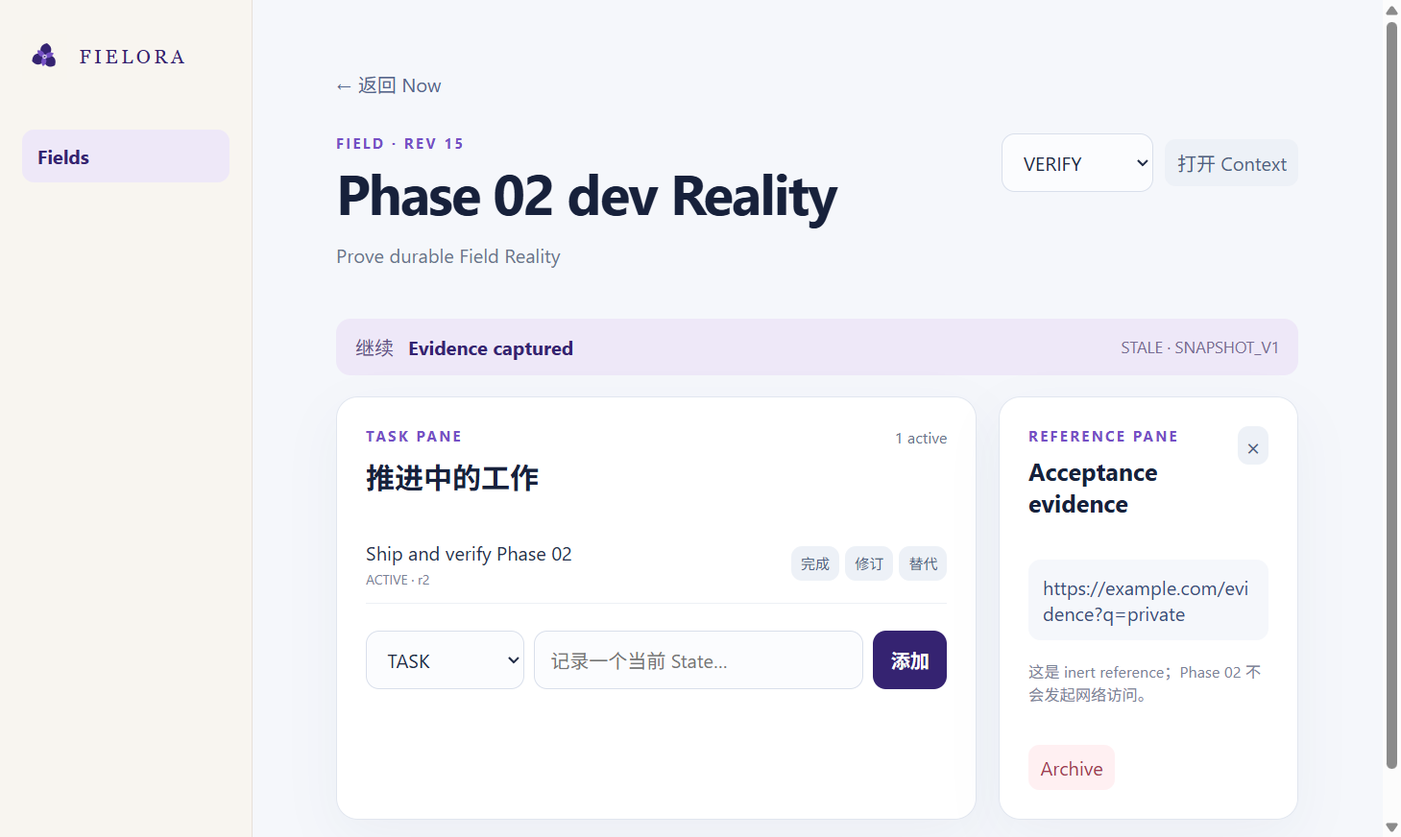
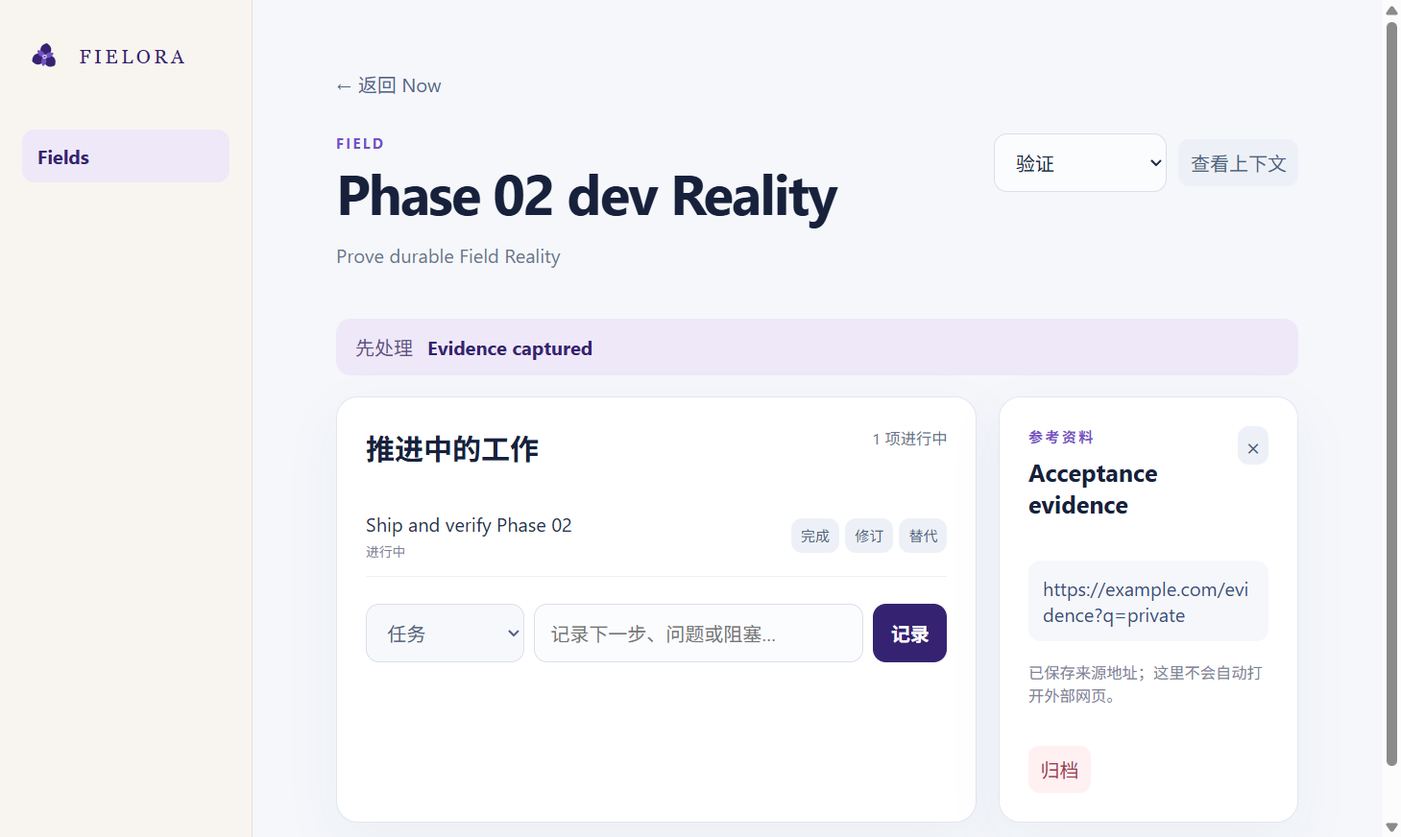
fix: refine Phase 02 human gate presentation

diff --git a/apps/desktop/src/renderer/App.tsx b/apps/desktop/src/renderer/App.tsx
@@ -5,7 +5,16 @@ import type {
 } from '@fielora/contracts';
 import fieloraLogo from '../../assets/fielora-logo.svg';
 import fieloraMark from '../../assets/fielora-mark.svg';
-import { focusLabel, screenFor } from './view-state';
+import {
+  activityLabel,
+  continuationPresentation,
+  fieldModeLabels,
+  focusLabel,
+  referenceLifecycleLabels,
+  screenFor,
+  stateKindLabels,
+  stateStatusLabels,
+} from './view-state';
 
 function BrandWordmark() {
   return <div className="wordmark"><img src={fieloraMark} alt="" aria-hidden="true" /><span>Fielora</span></div>;
@@ -18,18 +27,6 @@ function paneId(): string {
   bytes[6] = (bytes[6]! & 0x0f) | 0x70; bytes[8] = (bytes[8]! & 0x3f) | 0x80;
   const hex = [...bytes].map((value) => value.toString(16).padStart(2, '0')).join('');
   return `pane_${hex.slice(0, 8)}-${hex.slice(8, 12)}-${hex.slice(12, 16)}-${hex.slice(16, 20)}-${hex.slice(20)}`;
-}
-
-function continuationLabel(resume: FieldResumeV1View): string {
-  const { continuation } = resume;
-  if (continuation.target.kind === 'LEGACY_TEXT') return continuation.target.label;
-  if (continuation.target.kind === 'STATE') {
-    const stateId = continuation.target.state_id;
-    const item = [...resume.active_blockers, ...resume.active_questions, ...resume.active_tasks].find((state) => state.id === stateId);
-    return item?.content_excerpt ?? '继续当前 State';
-  }
-  if (continuation.target.kind === 'REFERENCE') return '继续当前 Reference';
-  return '回到 Field 总览';
 }
 
 export function App() {
@@ -96,8 +93,8 @@ export function App() {
   }
   async function focusState(state: StateView) { if (!resume) return; await run(() => window.fielora.field.setFocusV1({ field_id: resume.field.id, expected_field_revision: resume.field_revision, focus: { kind: 'STATE', state_id: state.id } }), resume.field.id); }
   async function transitionState(state: StateView, target: 'ACTIVE' | 'RESOLVED' | 'RETRACTED') { if (!resume) return; await run(() => window.fielora.state.transition({ field_id: resume.field.id, state_id: state.id, expected_state_revision: state.revision, target }), resume.field.id); }
-  async function supersedeState(state: StateView) { if (!resume) return; const content = window.prompt('Replacement State', state.content); if (!content) return; await run(() => window.fielora.state.supersede({ field_id: resume.field.id, state_id: state.id, expected_state_revision: state.revision, replacement_content: content, replacement_confidence: state.confidence }), resume.field.id); }
-  async function reviseState(state: StateView) { if (!resume) return; const content = window.prompt('Revise State', state.content); if (!content) return; await run(() => window.fielora.state.revise({ field_id: resume.field.id, state_id: state.id, expected_state_revision: state.revision, content, confidence: state.confidence }), resume.field.id); }
+  async function supersedeState(state: StateView) { if (!resume) return; const content = window.prompt('用新的内容替代这项记录', state.content); if (!content) return; await run(() => window.fielora.state.supersede({ field_id: resume.field.id, state_id: state.id, expected_state_revision: state.revision, replacement_content: content, replacement_confidence: state.confidence }), resume.field.id); }
+  async function reviseState(state: StateView) { if (!resume) return; const content = window.prompt('修订这项记录', state.content); if (!content) return; await run(() => window.fielora.state.revise({ field_id: resume.field.id, state_id: state.id, expected_state_revision: state.revision, content, confidence: state.confidence }), resume.field.id); }
   async function openReference(reference: ReferenceView) {
     if (!resume || reference.lifecycle !== 'ACTIVE') return;
     const layout: SurfaceLayoutV1 = { version: 1, template: 'PRIMARY_SUPPORT_RIGHT', primary: { pane_id: 'primary_task', primitive: 'TASK_PANE', binding: { kind: 'FIELD_TASKS' }, collapsed: false }, supporting: [{ pane_id: paneId(), primitive: 'REFERENCE_PANE', binding: { kind: 'REFERENCE', object_id: reference.id }, collapsed: false }], focused_pane_id: 'primary_task' };
@@ -110,6 +107,7 @@ export function App() {
   const tasks = useMemo(() => states.filter((state) => state.kind === 'TASK' && !['SUPERSEDED', 'RETRACTED'].includes(state.status)), [states]);
   const supportingReferenceId = resume?.layout.supporting.find((pane) => pane.binding.kind === 'REFERENCE')?.binding;
   const supportingReference = supportingReferenceId?.kind === 'REFERENCE' ? references.find((reference) => reference.id === supportingReferenceId.object_id) : undefined;
+  const continuation = resume ? continuationPresentation(resume, states, references) : undefined;
   const screen = screenFor(health, resume?.field.id);
 
   if (screen === 'startup') {
@@ -120,19 +118,19 @@ export function App() {
   if (screen === 'field' && resume) {
     return <div className="shell" data-testid="field-screen"><aside><BrandWordmark /><button className="nav active">Fields</button></aside><main className="content field-content">
       <button className="back" onClick={() => { setResume(undefined); setInspectorOpen(false); }}>← 返回 Now</button>
-      <header className="field-header"><div><p className="eyebrow">FIELD · REV {resume.field_revision}</p><h1 data-testid="field-title">{resume.field.title}</h1><p>{resume.field.goal || '这个 Field 还没有目标说明。'}</p></div><div className="field-tools"><select aria-label="Field mode" value={resume.field.current_mode ?? ''} onChange={(event) => void run(() => window.fielora.field.updateMode({ field_id: resume.field.id, expected_field_revision: resume.field_revision, mode: event.target.value ? event.target.value as never : null }), resume.field.id)}><option value="">No mode</option>{['EXPLORE','THINK','BUILD','OPERATE','VERIFY'].map((mode)=><option key={mode}>{mode}</option>)}</select><button className="secondary-button" onClick={() => setInspectorOpen((open) => !open)} data-testid="toggle-inspector">{inspectorOpen ? '关闭 Context' : '打开 Context'}</button></div></header>
-      <div className="resume-strip"><span>继续</span><strong data-testid="current-focus">{continuationLabel(resume)}</strong><small>{resume.snapshot_freshness} · {resume.layout_source}</small></div>
+      <header className="field-header"><div><p className="eyebrow">FIELD</p><h1 data-testid="field-title">{resume.field.title}</h1><p>{resume.field.goal || '这个 Field 还没有目标说明。'}</p></div><div className="field-tools"><select aria-label="工作状态" value={resume.field.current_mode ?? ''} onChange={(event) => void run(() => window.fielora.field.updateMode({ field_id: resume.field.id, expected_field_revision: resume.field_revision, mode: event.target.value ? event.target.value as never : null }), resume.field.id)}><option value="">选择工作状态</option>{Object.entries(fieldModeLabels).map(([mode,label])=><option key={mode} value={mode}>{label}</option>)}</select><button className="secondary-button" onClick={() => setInspectorOpen((open) => !open)} data-testid="toggle-inspector">{inspectorOpen ? '收起上下文' : '查看上下文'}</button></div></header>
+      <div className="resume-strip" data-resume-reason={resume.continuation.reason}><span>{continuation?.cue}</span><strong data-testid="current-focus">{continuation?.label}</strong></div>
       <div className={`surface ${resume.layout.template !== 'PRIMARY_ONLY' ? 'with-support' : ''}`} data-template={resume.layout.template}>
-        <section className="task-pane" data-testid="task-pane"><div className="pane-heading"><div><p className="eyebrow">TASK PANE</p><h2>推进中的工作</h2></div><span>{tasks.filter((task) => task.status === 'ACTIVE').length} active</span></div>
-          {tasks.length === 0 ? <div className="empty task-empty" data-testid="empty-task-pane"><h3>这里还没有 Task</h3><p>空工作面也是有效 Reality；Fielora 不会创建占位内容。</p></div> : <div className="state-list">{tasks.map((state)=><article className={`state-row ${state.status.toLowerCase()}`} key={state.id}><button className="state-main" onClick={() => void focusState(state)}><span>{state.content}</span><small>{state.status} · r{state.revision}</small></button><div className="row-actions">{state.status === 'ACTIVE' && <button onClick={() => void transitionState(state,'RESOLVED')}>完成</button>}{state.status === 'RESOLVED' && <button onClick={() => void transitionState(state,'ACTIVE')}>重开</button>}<button onClick={() => void reviseState(state)}>修订</button><button onClick={() => void supersedeState(state)}>替代</button></div></article>)}</div>}
-          <form className="quick-create" onSubmit={createState}><select name="kind" defaultValue="TASK"><option>TASK</option><option>QUESTION</option><option>BLOCKER</option><option>FACT</option><option>DECISION</option><option>ASSUMPTION</option><option>RESULT</option></select><input name="content" required maxLength={4000} placeholder="记录一个当前 State…" data-testid="create-state-content" /><button type="submit" disabled={busy} data-testid="create-state">添加</button></form>
+        <section className="task-pane" data-testid="task-pane"><div className="pane-heading"><h2>推进中的工作</h2><span>{tasks.filter((task) => task.status === 'ACTIVE').length} 项进行中</span></div>
+          {tasks.length === 0 ? <div className="empty task-empty" data-testid="empty-task-pane"><h3>还没有进行中的工作</h3><p>从下面记录第一件需要推进的事情。</p></div> : <div className="state-list">{tasks.map((state)=><article className={`state-row ${state.status.toLowerCase()}`} key={state.id}><button className="state-main" onClick={() => void focusState(state)}><span>{state.content}</span><small>{stateStatusLabels[state.status]}</small></button><div className="row-actions">{state.status === 'ACTIVE' && <button onClick={() => void transitionState(state,'RESOLVED')}>完成</button>}{state.status === 'RESOLVED' && <button onClick={() => void transitionState(state,'ACTIVE')}>重开</button>}<button onClick={() => void reviseState(state)}>修订</button><button onClick={() => void supersedeState(state)}>替代</button></div></article>)}</div>}
+          <form className="quick-create" onSubmit={createState}><select name="kind" defaultValue="TASK" aria-label="记录类型">{Object.entries(stateKindLabels).map(([kind,label])=><option key={kind} value={kind}>{label}</option>)}</select><input name="content" required maxLength={4000} placeholder="记录下一步、问题或阻塞…" data-testid="create-state-content" /><button type="submit" disabled={busy} data-testid="create-state">记录</button></form>
         </section>
-        {resume.layout.template !== 'PRIMARY_ONLY' && <section className="reference-pane" data-testid="reference-pane"><div className="pane-heading"><div><p className="eyebrow">REFERENCE PANE</p><h2>{supportingReference?.title ?? 'Reference unavailable'}</h2></div><button className="icon-button" onClick={() => void closeReferencePane()}>×</button></div>{supportingReference?.lifecycle === 'ACTIVE' ? <><p className="inert-url">{supportingReference.canonical_url}</p><p className="muted">这是 inert reference；Phase 02 不会发起网络访问。</p><button className="danger-link" onClick={() => void archiveReference(supportingReference)}>Archive</button></> : <div className="empty"><p>Snapshot 引用已归档或缺失。当前 Reality 未被旧工作面覆盖。</p></div>}</section>}
+        {resume.layout.template !== 'PRIMARY_ONLY' && <section className="reference-pane" data-testid="reference-pane"><div className="pane-heading"><div><p className="eyebrow">参考资料</p><h2>{supportingReference?.title ?? '参考资料暂不可用'}</h2></div><button className="icon-button" aria-label="关闭参考资料" onClick={() => void closeReferencePane()}>×</button></div>{supportingReference?.lifecycle === 'ACTIVE' ? <><p className="inert-url">{supportingReference.canonical_url}</p><p className="muted">已保存来源地址；这里不会自动打开外部网页。</p><button className="danger-link" onClick={() => void archiveReference(supportingReference)}>归档</button></> : <div className="empty"><p>这项参考资料已归档或不可用。当前工作不会被旧记录覆盖。</p></div>}</section>}
       </div>
-      {inspectorOpen && <section className="context-inspector" data-testid="context-inspector"><div className="inspector-head"><div><p className="eyebrow">ON-DEMAND CONTEXT</p><h2>Reality & lineage</h2></div><button className="icon-button" onClick={() => setInspectorOpen(false)}>×</button></div><div className="inspector-grid"><div><h3>Questions & blockers</h3>{states.filter((state)=>['QUESTION','BLOCKER'].includes(state.kind)&&state.status==='ACTIVE').map((state)=><article className="context-row" key={state.id}><button onClick={() => void focusState(state)}>{state.kind}: {state.content}</button><div><button onClick={() => void transitionState(state,'RESOLVED')}>Resolve</button><button onClick={() => void supersedeState(state)}>Supersede</button></div></article>)}</div><div><h3>References</h3>{references.map((reference)=><article className="context-row" key={reference.id}><div><strong>{reference.title}</strong><small>{reference.lifecycle}</small></div><div>{reference.lifecycle==='ACTIVE'?<><button onClick={() => void openReference(reference)} data-testid={`open-reference-${reference.title}`}>打开工作面</button><button onClick={() => void archiveReference(reference)}>Archive</button></>:<button onClick={() => void restoreReference(reference)}>Restore</button>}</div></article>)}<form className="reference-create" onSubmit={createReference}><input name="title" required maxLength={120} placeholder="Reference title" data-testid="reference-title" /><input name="url" required maxLength={2048} placeholder="https://…" data-testid="reference-url" /><button type="submit" disabled={busy} data-testid="create-reference">保存 Reference</button></form></div><div><h3>Recent activity</h3>{activities.slice(0,8).map((activity)=><div className="activity-row" key={activity.id}><span>{activity.action.replaceAll('_',' ')}</span><small>{new Date(activity.created_at).toLocaleTimeString()}</small></div>)}</div></div></section>}
+      {inspectorOpen && <section className="context-inspector" data-testid="context-inspector"><div className="inspector-head"><div><p className="eyebrow">按需查看</p><h2>当前上下文</h2></div><button className="icon-button" aria-label="收起上下文" onClick={() => setInspectorOpen(false)}>×</button></div><div className="inspector-grid"><div><h3>待确认与阻塞</h3>{states.filter((state)=>['QUESTION','BLOCKER'].includes(state.kind)&&state.status==='ACTIVE').map((state)=><article className="context-row" key={state.id}><button onClick={() => void focusState(state)}>{stateKindLabels[state.kind]}：{state.content}</button><div><button onClick={() => void transitionState(state,'RESOLVED')}>解决</button><button onClick={() => void supersedeState(state)}>替代</button></div></article>)}</div><div><h3>参考资料</h3>{references.map((reference)=><article className="context-row" key={reference.id}><div><strong>{reference.title}</strong><small>{referenceLifecycleLabels[reference.lifecycle]}</small></div><div>{reference.lifecycle==='ACTIVE'?<><button onClick={() => void openReference(reference)} data-testid={`open-reference-${reference.title}`}>打开工作面</button><button onClick={() => void archiveReference(reference)}>归档</button></>:<button onClick={() => void restoreReference(reference)}>恢复</button>}</div></article>)}<form className="reference-create" onSubmit={createReference}><input name="title" required maxLength={120} placeholder="参考资料名称" data-testid="reference-title" /><input name="url" required maxLength={2048} placeholder="https://…" data-testid="reference-url" /><button type="submit" disabled={busy} data-testid="create-reference">保存</button></form></div><div><h3>最近动态</h3>{activities.slice(0,8).map((activity)=><div className="activity-row" key={activity.id}><span>{activityLabel(activity.action)}</span><small>{new Date(activity.created_at).toLocaleTimeString()}</small></div>)}</div></div></section>}
       {error && <p className="error">{error}</p>}
     </main></div>;
   }
 
-  return <div className="shell" data-testid="now-screen"><aside><BrandWordmark /><button className="nav active">Now</button><button className="nav">Fields</button></aside><main className="content"><header className="now-header"><div><p className="eyebrow">NOW</p><h1>继续真正重要的工作</h1><p>你的 Field Reality 已从本地安全恢复。</p></div></header><div className="now-grid"><section className="continue"><h2>继续</h2>{fields.length === 0 ? <div className="empty"><h3>从第一个 Field 开始</h3><p>为一件需要持续推进的事情保存目标、State、来源和工作现场。</p></div> : fields.slice(0,3).map((field)=><button className="field-row" key={field.id} onClick={() => void openField(field.id)} data-testid={`field-${field.title}`}><span><strong>{field.title}</strong><small>{field.goal || '未设置目标'}</small></span><em>{focusLabel(field.current_focus)} →</em></button>)}</section><section className="create"><h2>创建 Field</h2><form onSubmit={createField}><label>名称<input name="title" required maxLength={120} placeholder="例如：Fielora / Build V0.1" data-testid="create-title" /></label><label>目标（可选）<textarea name="goal" maxLength={4000} placeholder="这个 Field 要推进什么？" data-testid="create-goal" /></label><button disabled={busy} data-testid="create-field">创建 Field</button></form></section></div>{error && <p className="error">{error}</p>}</main></div>;
+  return <div className="shell" data-testid="now-screen"><aside><BrandWordmark /><button className="nav active">Now</button><button className="nav">Fields</button></aside><main className="content"><header className="now-header"><div><p className="eyebrow">NOW</p><h1>继续真正重要的工作</h1><p>你的工作现场已从本地安全恢复。</p></div></header><div className="now-grid"><section className="continue"><h2>继续</h2>{fields.length === 0 ? <div className="empty"><h3>从第一个 Field 开始</h3><p>为一件需要持续推进的事情保存目标、进展、来源和工作现场。</p></div> : fields.slice(0,3).map((field)=><button className="field-row" key={field.id} onClick={() => void openField(field.id)} data-testid={`field-${field.title}`}><span><strong>{field.title}</strong><small>{field.goal || '未设置目标'}</small></span><em>{focusLabel(field.current_focus)} →</em></button>)}</section><section className="create"><h2>创建 Field</h2><form onSubmit={createField}><label>名称<input name="title" required maxLength={120} placeholder="例如：Fielora / Build V0.1" data-testid="create-title" /></label><label>目标（可选）<textarea name="goal" maxLength={4000} placeholder="这个 Field 要推进什么？" data-testid="create-goal" /></label><button disabled={busy} data-testid="create-field">创建 Field</button></form></section></div>{error && <p className="error">{error}</p>}</main></div>;
 }

diff --git a/apps/desktop/src/renderer/view-state.ts b/apps/desktop/src/renderer/view-state.ts
@@ -1,4 +1,15 @@
-import type { FieldSummary, HealthDTO } from '@fielora/contracts';
+import type {
+  ActivityAction,
+  FieldMode,
+  FieldResumeV1View,
+  FieldStateKind,
+  FieldSummary,
+  HealthDTO,
+  ObjectLifecycle,
+  ReferenceView,
+  StateStatus,
+  StateView,
+} from '@fielora/contracts';
 
 export type Screen = 'startup' | 'now' | 'field';
 
@@ -15,5 +26,95 @@ export function upsertFields(fields: FieldSummary[], changed: FieldSummary): Fie
 export function focusLabel(value: unknown): string {
   if (typeof value === 'string') return value;
   if (value === null || value === undefined) return '尚未设置当前焦点';
-  return JSON.stringify(value);
+  if (typeof value === 'object' && 'kind' in value) {
+    if (value.kind === 'STATE') return '继续当前工作';
+    if (value.kind === 'REFERENCE') return '查看当前参考资料';
+  }
+  return '回到当前 Field';
+}
+
+export const fieldModeLabels: Record<FieldMode, string> = {
+  EXPLORE: '探索',
+  THINK: '思考',
+  BUILD: '构建',
+  OPERATE: '执行',
+  VERIFY: '验证',
+};
+
+export const stateKindLabels: Record<FieldStateKind, string> = {
+  FACT: '事实',
+  DECISION: '决定',
+  ASSUMPTION: '假设',
+  QUESTION: '问题',
+  TASK: '任务',
+  BLOCKER: '阻塞',
+  RESULT: '结果',
+};
+
+export const stateStatusLabels: Record<StateStatus, string> = {
+  ACTIVE: '进行中',
+  RESOLVED: '已完成',
+  SUPERSEDED: '已替代',
+  RETRACTED: '已撤回',
+};
+
+export const referenceLifecycleLabels: Record<ObjectLifecycle, string> = {
+  ACTIVE: '可用',
+  ARCHIVED: '已归档',
+};
+
+const activityLabels: Record<ActivityAction, string> = {
+  FIELD_CREATED: '创建了 Field',
+  FIELD_FOCUS_UPDATED: '更新了当前关注',
+  FIELD_MODE_UPDATED: '切换了工作状态',
+  STATE_CREATED: '记录了新内容',
+  STATE_REVISED: '修订了内容',
+  STATE_STATUS_CHANGED: '更新了进展',
+  STATE_SUPERSEDED: '替代了旧内容',
+  REFERENCE_CREATED: '保存了参考资料',
+  REFERENCE_REVISED: '修订了参考资料',
+  REFERENCE_ARCHIVED: '归档了参考资料',
+  REFERENCE_RESTORED: '恢复了参考资料',
+  REFERENCE_SOURCE_ATTACHED: '关联了来源',
+  REFERENCE_SOURCE_RETRACTED: '移除了来源关联',
+};
+
+export function activityLabel(action: ActivityAction): string {
+  return activityLabels[action];
+}
+
+export interface ContinuationPresentation {
+  cue: string;
+  label: string;
+}
+
+export function continuationPresentation(
+  resume: FieldResumeV1View,
+  states: StateView[],
+  references: ReferenceView[],
+): ContinuationPresentation {
+  const { continuation } = resume;
+  if (continuation.target.kind === 'LEGACY_TEXT') {
+    return { cue: '上次关注', label: continuation.target.label };
+  }
+  if (continuation.target.kind === 'STATE') {
+    const stateId = continuation.target.state_id;
+    const state = states.find((item) => item.id === stateId);
+    const fallback = [...resume.active_blockers, ...resume.active_questions, ...resume.active_tasks]
+      .find((item) => item.id === stateId);
+    const cue = continuation.reason === 'ACTIVE_BLOCKER'
+      ? '先处理'
+      : continuation.reason === 'ACTIVE_QUESTION'
+        ? '待确认'
+        : continuation.reason === 'TYPED_FOCUS'
+          ? '当前关注'
+          : '继续';
+    return { cue, label: state?.content ?? fallback?.content_excerpt ?? '回到当前工作' };
+  }
+  if (continuation.target.kind === 'REFERENCE') {
+    const objectId = continuation.target.object_id;
+    const reference = references.find((item) => item.id === objectId);
+    return { cue: '当前关注', label: reference?.title ?? '查看参考资料' };
+  }
+  return { cue: '继续', label: '查看当前工作' };
 }

diff --git a/apps/desktop/src/renderer/view-state.test.ts b/apps/desktop/src/renderer/view-state.test.ts
@@ -1,7 +1,17 @@
 import test from 'node:test';
 import assert from 'node:assert/strict';
-import type { FieldSummary, HealthDTO } from '@fielora/contracts';
-import { focusLabel, screenFor, upsertFields } from './view-state.ts';
+import type { FieldResumeV1View, FieldSummary, HealthDTO, StateView } from '@fielora/contracts';
+import {
+  activityLabel,
+  continuationPresentation,
+  fieldModeLabels,
+  focusLabel,
+  referenceLifecycleLabels,
+  screenFor,
+  stateKindLabels,
+  stateStatusLabels,
+  upsertFields,
+} from './view-state.ts';
 
 const health: HealthDTO = {
   state: 'READY', core_version: '0.1.0', protocol: { major: 1, minor: 0 }, schema_version: 1, pid: 1, db_path: 'redacted',
@@ -19,4 +29,71 @@ test('event invalidation result keeps newest field first', () => {
   const changed: FieldSummary = { id: 'b', title: 'B', goal: null, current_mode: null, current_focus: 'Focus', revision: 2, updated_at: 2 };
   assert.deepEqual(upsertFields([older], changed), [changed, older]);
   assert.equal(focusLabel(changed.current_focus), 'Focus');
+});
+
+test('wire values are presented as product language', () => {
+  assert.equal(fieldModeLabels.VERIFY, '验证');
+  assert.equal(stateKindLabels.TASK, '任务');
+  assert.equal(stateStatusLabels.ACTIVE, '进行中');
+  assert.equal(referenceLifecycleLabels.ARCHIVED, '已归档');
+  assert.equal(activityLabel('STATE_SUPERSEDED'), '替代了旧内容');
+  assert.equal(focusLabel({ kind: 'STATE', state_id: 'state_1' }), '继续当前工作');
+  assert.equal(focusLabel({ unexpected: true }), '回到当前 Field');
+});
+
+const field = {
+  id: 'field_1', owner_principal_id: 'principal_1', title: 'Human Acceptance Test', goal: null,
+  lifecycle_status: 'ACTIVE', current_mode: null, current_focus: 'PHASE_01_HUMAN_PASS_TEST',
+  revision: 4, created_at: 1, updated_at: 4,
+} as const;
+
+const baseResume: FieldResumeV1View = {
+  field,
+  field_revision: 4,
+  focus_source: 'LEGACY_TEXT',
+  typed_focus: null,
+  legacy_text_focus: 'PHASE_01_HUMAN_PASS_TEST',
+  snapshot_freshness: 'STALE',
+  layout_source: 'LEGACY_PHASE01_FALLBACK',
+  layout: {
+    version: 1,
+    template: 'PRIMARY_ONLY',
+    primary: { pane_id: 'primary_task', primitive: 'TASK_PANE', binding: { kind: 'FIELD_TASKS' }, collapsed: false },
+    supporting: [],
+    focused_pane_id: 'primary_task',
+  },
+  open_reference_ids: [],
+  unavailable_reference_ids: [],
+  active_blockers: [],
+  active_questions: [],
+  active_tasks: [],
+  last_activity: null,
+  continuation: { reason: 'LEGACY_TEXT_FOCUS', target: { kind: 'LEGACY_TEXT', label: 'PHASE_01_HUMAN_PASS_TEST' } },
+  external_changes: 'NOT_EVALUATED_PHASE02',
+};
+
+test('legacy focus is framed as previous attention without exposing snapshot diagnostics', () => {
+  assert.deepEqual(continuationPresentation(baseResume, [], []), {
+    cue: '上次关注',
+    label: 'PHASE_01_HUMAN_PASS_TEST',
+  });
+});
+
+test('current task continuation uses its content and a natural cue', () => {
+  const task = {
+    id: 'state_1', field_id: field.id, kind: 'TASK', content: '完成当前工作', status: 'ACTIVE',
+    confidence: null, created_by: 'principal_1', source_activity_id: 'activity_1', revision: 1,
+    created_at: 2, updated_at: 3,
+  } satisfies StateView;
+  const resume: FieldResumeV1View = {
+    ...baseResume,
+    focus_source: 'TYPED_V1',
+    typed_focus: { kind: 'STATE', state_id: task.id },
+    legacy_text_focus: null,
+    continuation: { reason: 'TYPED_FOCUS', target: { kind: 'STATE', state_id: task.id } },
+  };
+  assert.deepEqual(continuationPresentation(resume, [task], []), {
+    cue: '当前关注',
+    label: '完成当前工作',
+  });
 });

diff --git a/apps/desktop/src/renderer/styles.css b/apps/desktop/src/renderer/styles.css
@@ -49,9 +49,8 @@ button:disabled { opacity: .55; cursor: wait; }
 .field-tools { display: flex; align-items: center; gap: 10px; }
 .field-tools select { width: auto; min-width: 126px; }
 .secondary-button, .row-actions button, .context-row button, .icon-button, .danger-link { border: 0; border-radius: 9px; padding: 8px 10px; color: #4f5f83; background: #edf1f7; }
-.resume-strip { margin: 26px 0 18px; display: grid; grid-template-columns: auto 1fr auto; align-items: center; gap: 12px; padding: 12px 16px; border-radius: 12px; background: #eee8f8; color: #5f5187; }
+.resume-strip { margin: 26px 0 18px; display: grid; grid-template-columns: auto minmax(0,1fr); align-items: center; gap: 12px; padding: 12px 16px; border-radius: 12px; background: #eee8f8; color: #5f5187; }
 .resume-strip strong { color: var(--fielora-ink); white-space: nowrap; overflow: hidden; text-overflow: ellipsis; }
-.resume-strip small { color: #776c93; }
 .surface { display: grid; gap: 18px; align-items: stretch; }
 .surface.with-support { grid-template-columns: minmax(0,72fr) minmax(250px,28fr); }
 .task-pane, .reference-pane, .context-inspector { background: rgba(255,255,255,.96); border: 1px solid #e1e6ef; border-radius: 18px; padding: 24px; box-shadow: 0 15px 45px rgba(33,48,84,.045); }
@@ -67,6 +66,7 @@ button:disabled { opacity: .55; cursor: wait; }
 .row-actions { display: flex; gap: 5px; }
 .row-actions button { padding: 6px 8px; font-size: 12px; }
 .quick-create { display: grid; grid-template-columns: 132px 1fr auto; gap: 8px; margin-top: 18px; }
+.quick-create select { color: #4f5f83; background: #f7f8fb; }
 .quick-create button, .reference-create button { border: 0; border-radius: 11px; background: var(--fielora-ink); color: white; padding: 10px 15px; font-weight: 650; }
 .reference-pane { min-height: 300px; }
 .reference-pane h2 { font-size: 20px; overflow-wrap: anywhere; }
